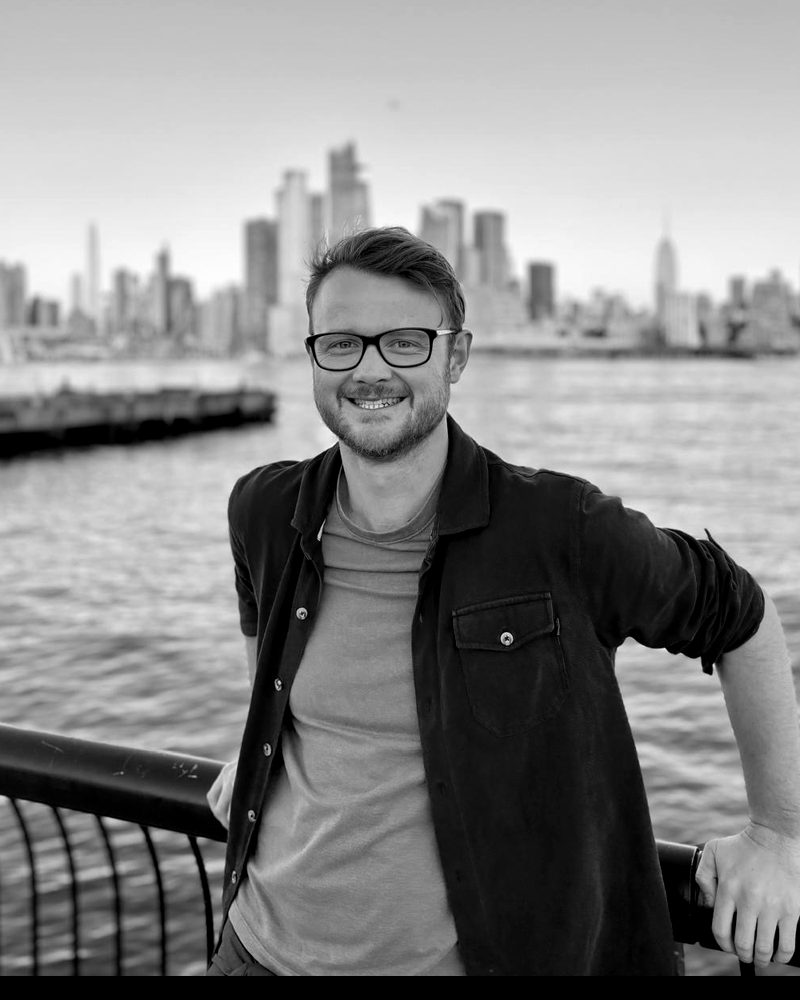
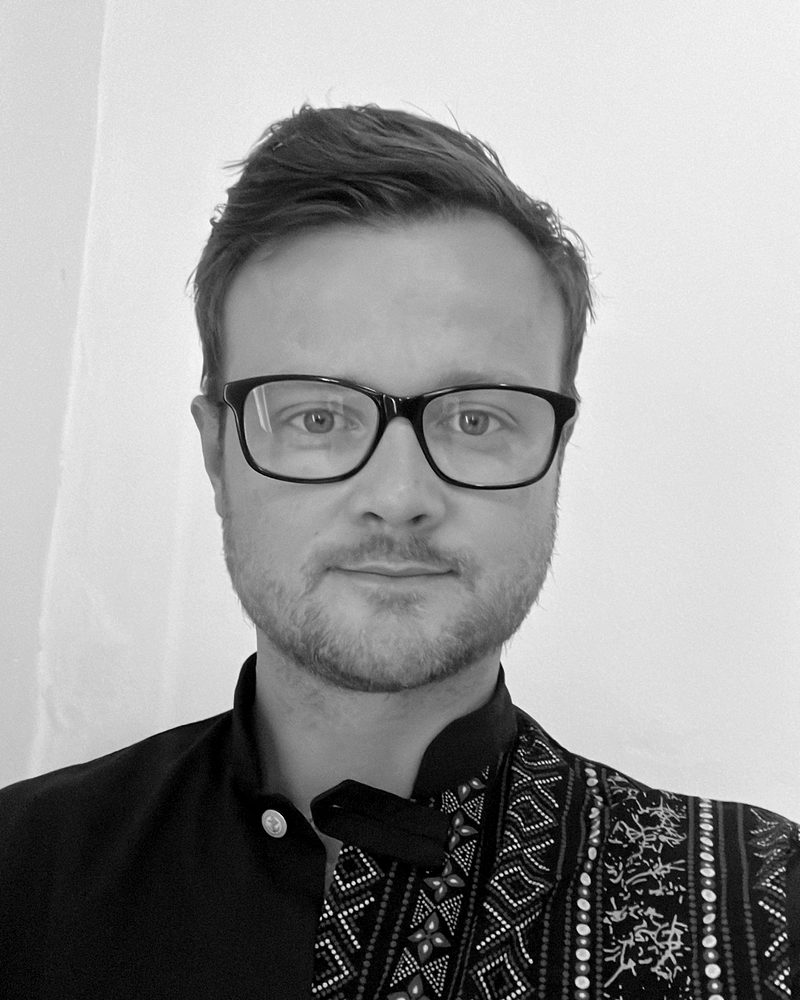
Swap photos: neutral portrait on home, Bath arches on About
Claude-Session: https://claude.ai/code/session_01KKpw9zqSA6eEBT6vm3sRuo

diff --git a/about.html b/about.html
@@ -174,7 +174,7 @@ footer p.lede{color:#d7e3df; max-width:520px; margin-top:14px;}
     <h1>Matt Thomson</h1>
     <p>Independent adviser on localisation, handover and aid reform, based in Bath. PhD candidate at the University of Bristol. I also hold a salaried role at a UK INGO, declared below.</p>
    </div>
-   <img class="about-photo" src="/img/matt-about.jpg" width="720" height="900" alt="Portrait of Matt Thomson" loading="eager">
+   <img class="about-photo" src="/img/matt-about.jpg" width="720" height="900" alt="Matt Thomson standing between stone arches above a wooded valley near Bath" loading="eager">
   </div>
 </header>
 

diff --git a/index.html b/index.html
@@ -227,7 +227,7 @@ footer p.lede{color:#e3dacd; max-width:520px; margin-top:14px;}
       <span>The Gambia</span><span>Uganda</span><span>Kenya</span><span>Tanzania</span><span>Tunisia</span>
     </div>
    </div>
-   <figure class="hero-photo"><img src="/img/matt-hero.jpg" width="800" height="1000" alt="Matt Thomson, smiling, leaning on a railing by the Hudson with the New York skyline behind" fetchpriority="high"></figure>
+   <figure class="hero-photo"><img src="/img/matt-hero.jpg" width="800" height="1000" alt="Portrait of Matt Thomson" fetchpriority="high"></figure>
   </div>
 </header>
 
